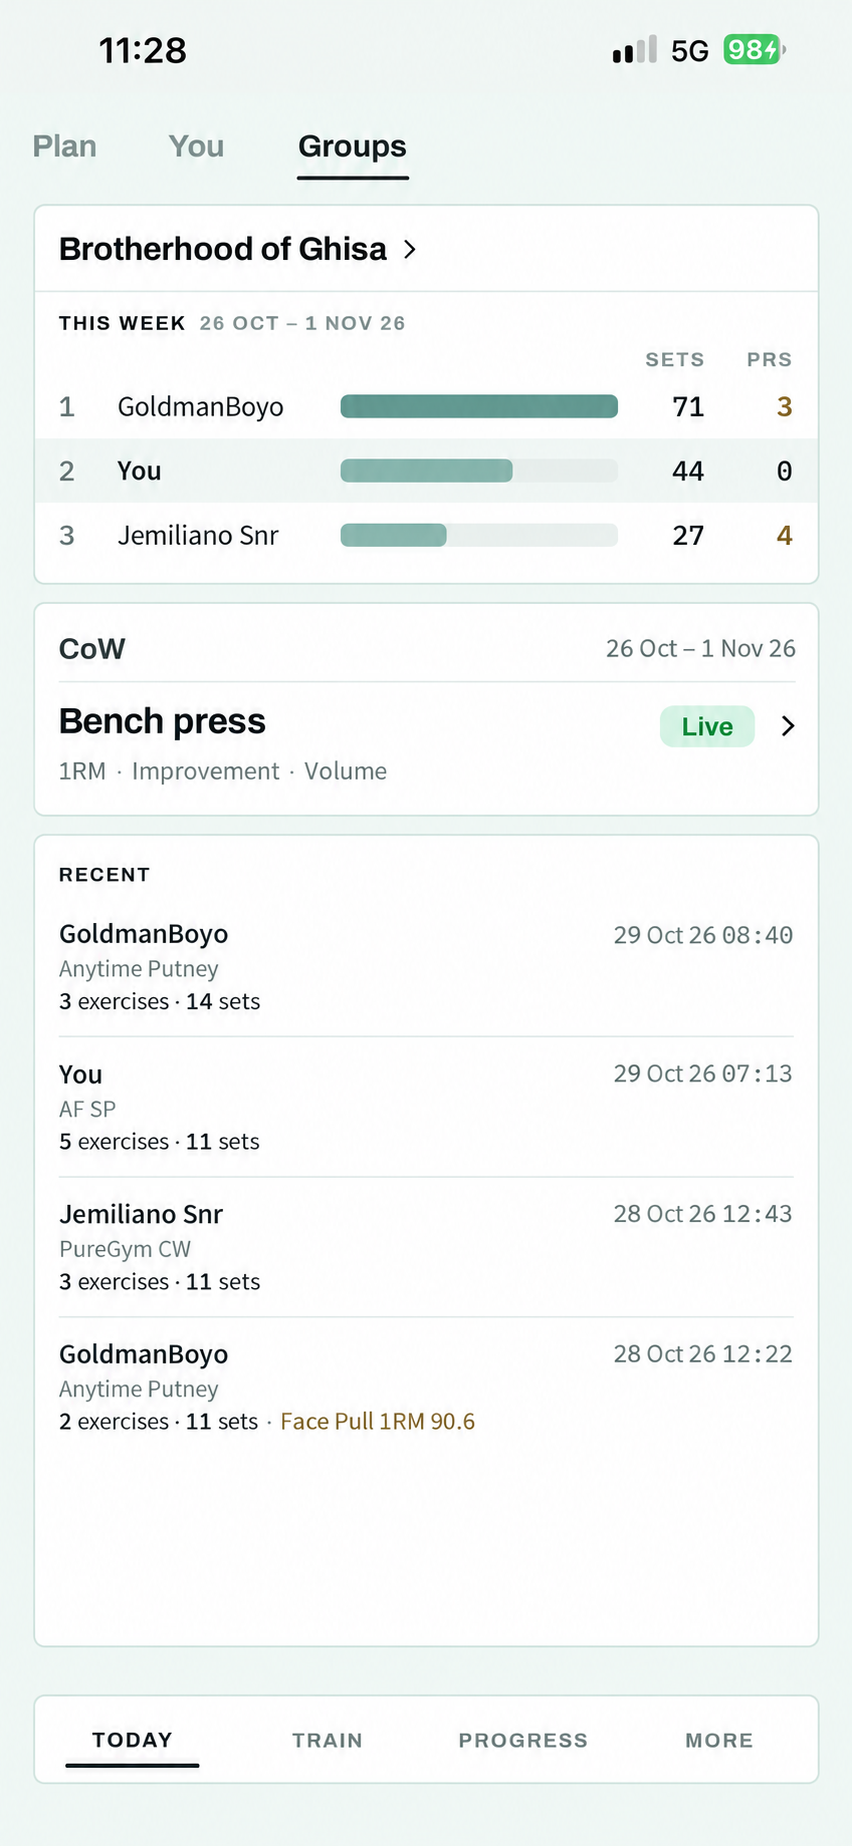
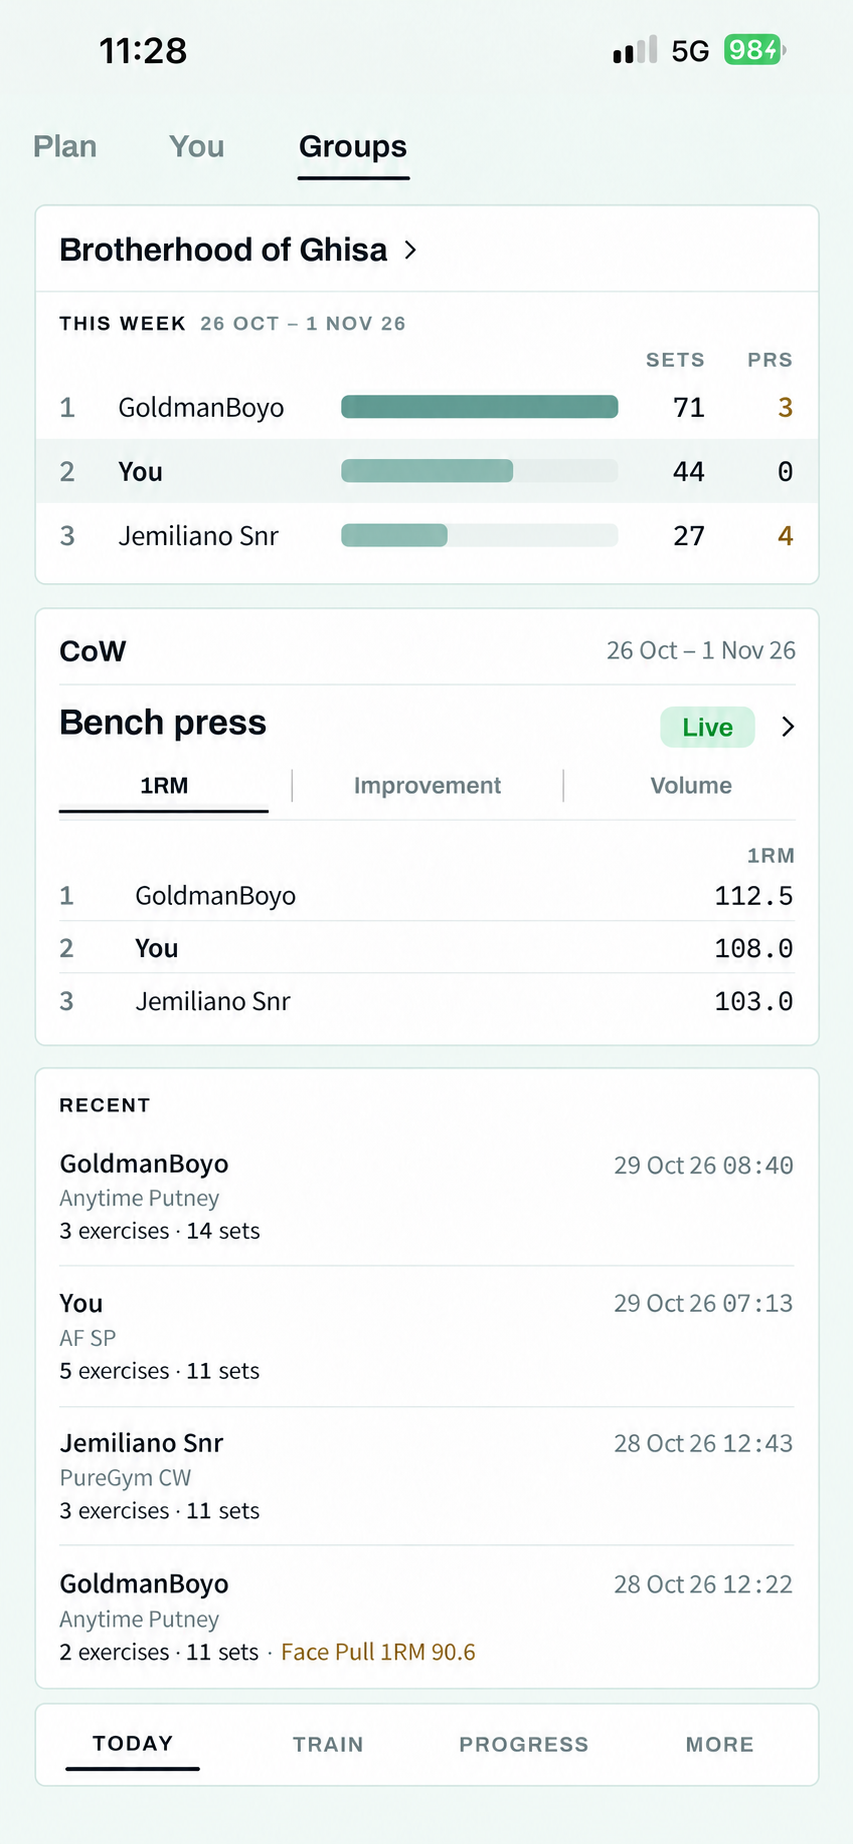
docs: show top-three CoW rankings with in-card metric tabs
Update the Today card mockup and read/UI contracts for independent 1RM,
improvement and volume previews. Keep metric switching inside Today and
open the matching detailed view from the header.

diff --git a/docs/plans/tasks/M39-T04-Deliver_CotW_mobile_flows.md b/docs/plans/tasks/M39-T04-Deliver_CotW_mobile_flows.md
@@ -30,7 +30,9 @@ Volume result. Group %BW 1RM and personal improvement % need distinct labels.
 The operator clarified: Today / Groups shows a small card for this week's CoW
 only; the detailed secondary browser is accessible from Groups. The earlier
 At a glance summary placement is replaced by this distinction. The Today card
-opens that group's current CoW in the browser. Scheduling starts on the
+shows the first three places and supports in-card switching between enabled
+1RM / Improvement / Volume leaderboards. Its header opens that group's current
+CoW with the selected metric; switching metrics never navigates. Scheduling starts on the
 individual group page and opens secondary creation/editing for owners/admins;
 members view/browse. No admin scheduling controls on Today.
 
@@ -71,7 +73,10 @@ mockup is attached to the brief; no browser tabs or week stepper.
    fixed next-week dates, membership eligibility and revision conflicts. Prove
    the Today card is immediately visible and current-week-only in the group's
    zone (no upcoming/past fallback), group switching cannot retain stale CoW
-   context, Groups opens the detailed browser, group-page admin scheduling opens the
+   context, in-card metric switching shows the proper server top three and units
+   without opening detail, and the header opens the same metric/group/CoW.
+   Cover fewer/no qualifying rows, only enabled metrics and no substitution of
+   the viewer for a top-three place. Groups opens the detailed browser; group-page admin scheduling opens the
    secondary form, members can browse without edit controls, and Back retains
    the originating group/page. Use
    existing test fixtures and read `apps/mobile/__tests__/README.md` first.
@@ -82,7 +87,9 @@ mockup is attached to the brief; no browser tabs or week stepper.
    its device-only behavior and state exactly what the flow proves.
 5. Capture the running app at small and large phone sizes and compare against
    the agreed target, including create, rankings and unavailable/error states;
-   add any size required by the current competition contract. Check accessible
+   add any size required by the current competition contract. Include Today
+   with its full weekly board, CoW preview and training-now/recent content:
+   preserve usable internal scrolling and the tab bar on small screens. Check accessible
    labels, touch targets, scrolling/keyboard and non-colour state cues. Link
    screenshots and material deviations in the PR.
 
@@ -91,6 +98,7 @@ mockup is attached to the brief; no browser tabs or week stepper.
 | Flow | Trigger and steps | Success | Failure/edge |
 | --- | --- | --- | --- |
 | Find challenge | Read the compact current-CoW card on Today / Groups, or open the detailed browser from Groups | Correct selected group and authoritative CoW week; Today opens its current detail | No current CoW is explicit; Today never substitutes an upcoming or past CoW; no inline admin controls |
+| Browse Today rankings | Tap an enabled metric inside the CoW card; read its first three places | Correct server ranks/units update in place; header opens the same metric in detail | Fewer/no results and unavailable metrics stay explicit; controls never trigger navigation |
 | Set challenge | Owner/admin opens Schedule next CoW from the individual group page; reviews fixed dates/zone on the secondary form, picks exercise/metrics and publishes | One upcoming CoW is visible to all members | Missing zone/eligible exercise, offline, validation or conflict preserves input; members cannot write |
 | Read results | Choose a metric; inspect live standings or stored final rank | Values/units and finality match the server CoW | Missing baseline is unranked only for improvement; finalizing is never shown as final |
 | Manage challenge | Admin opens Edit next CoW from the group page and edits/cancels on the secondary page | Server lifecycle is reflected immediately; Back returns to the originating group | State/role changed: refresh with input retained; destructive actions confirm |

diff --git a/docs/plans/M39-cow-ux.md b/docs/plans/M39-cow-ux.md
@@ -53,26 +53,35 @@ is accessible from Groups; Today / Groups gets a separate small card showing
 only this week's CoW for the selected group. The earlier At a glance summary
 placement was a misunderstanding and is replaced by this distinction.
 
-Today shows the current exercise, week, status and enabled metrics immediately.
-The whole card opens the detailed browser with that group and current CoW
-selected. It has no rankings, metric controls, upcoming/history rows or admin
-actions. A week without a CoW shows No CoW this week, never a prior result or
+Today shows the current exercise, week, status and the first three places of
+the selected leaderboard. Compact 1RM / Improvement / Volume tabs switch
+between the enabled metrics inside the card; no navigation or swipe is needed.
+Only metrics enabled for that CoW are offered. Render at most three qualifying
+server-ranked rows with their correct unit; do not substitute the viewer for
+third place or fabricate missing results. Keep the preview height stable when
+switching to a metric with fewer results.
+
+The header/chevron opens the detailed browser with the same group, current CoW
+and selected metric. Metric controls stay independent of that link; the whole
+card is not one nested press target. There are no upcoming/history rows or
+admin actions. A week without a CoW shows No CoW this week, never a prior result or
 next week's challenge presented as current. The authoritative group-calendar
 window determines this card; the existing Today working-set board keeps its
 own viewer-local week. No new main tab.
 
 Proposed placement: between Today's existing group week board and Recent.
-Keep the group's existing header/switch and board intact. Recent remains the
+Keep the group's existing header/switch and working-set board intact. Recent remains the
 elastic, internally scrollable part; adding the small card must not push it
 or the tab bar off-screen. Long names wrap without reducing type size.
 
 ![Proposed compact current-CoW card on Today / Groups](assets/M39-cow-today.png)
 
-Generated with the built-in image-generation tool. Prompt: edit the supplied
-Today / Groups screenshot to insert one small current-CoW card between its
-board and Recent; preserve its theme, type, existing board/session content and
-tab bar; use the existing Recent whitespace. Placement/content are proposed
-for review. The full browser target above stays separate.
+Generated with the built-in image-generation tool. Prompt: refine the current
+Today card with three metric tabs and the selected ranking's top-three rows;
+retain the current exercise/week/status and header detail link. Preserve the
+theme, type, existing working-set board and tab bar; consume Recent's spare
+space, allowing its list to scroll. The top-three/in-card-browsing behavior is
+agreed; revised layout is shown for review. The full browser stays separate.
 
 Groups provides an entry to the secondary detailed CoW browser. Its exact
 entry-link layout remains to be designed; it does not embed the full browser
@@ -96,7 +105,10 @@ Today: Plan | You | Groups
 
 CoW                         26 Oct – 1 Nov 26
 Bench press                         Live   >
-1RM · Improvement · Volume
+[1RM] | Improvement | Volume
+1 GoldmanBoyo                         112.5
+2 You                                 108.0
+3 Jemiliano Snr                       103.0
 
 ...existing Recent sessions...
 

diff --git a/docs/plans/tasks/M39-T03-Serve_CotW_rankings_and_history.md b/docs/plans/tasks/M39-T03-Serve_CotW_rankings_and_history.md
@@ -65,12 +65,17 @@ definition, current results, history and linked session reads.
    keys through the existing group modules. Do not cache full result pages
    where the existing online-paged pattern suffices. Evict incompatible new
    payload generations and drop stale account/group responses. Provide the
-   small current-CoW summary Today consumes, using the authoritative group
-   week; never return upcoming or previous-week data as its current result.
+   compact current-CoW summary Today consumes, including up to three ordered
+   public rank rows per enabled metric with explicit units and coherent scoring
+   context. This bounded podium payload can use the summary cache; full result
+   pages remain online. Use the authoritative group week, never upcoming or
+   previous-week data as current, and never derive Today ranks from local logs.
 5. Extend the existing group backend and real-client API suites with at least
    two members, several sessions, pre-week and boundary sets, several selected
    metrics, missing baseline/reading, ordinary and normalized exercises, and
-   source/revision/role races. Run real responses through the mobile guards.
+   source/revision/role races. Prove Today top-three order/units independently
+   for each enabled metric, including fewer entries and no improvement baseline.
+   Run real responses through the mobile guards.
    Read each test directory's README before modifying its tests.
 6. At the agreed deadline, finalize all selected metrics as one coherent,
    durable outcome with original units, ranks and scoring context. Publish

diff --git a/docs/plans/milestones/M39-group-challenge-of-the-week.md b/docs/plans/milestones/M39-group-challenge-of-the-week.md
@@ -90,7 +90,8 @@ follow existing refresh/offline behavior; admin writes require a connection.
 The draft [CoW UX brief](../M39-cow-ux.md) is attached to this milestone and
 T04. The operator clarified: the detailed browser is reached from Groups;
 Today / Groups gets a separate compact card for this week's CoW only. It is
-a reading entry, with no upcoming/history rows or scheduling controls; the
+a top-three preview with in-card switching across enabled metric leaderboards;
+its header opens the detailed view. It has no upcoming/history rows or scheduling controls; the
 previous At a glance summary placement was a misunderstanding. Admins schedule
 from the individual group page into secondary creation/editing. The operator selected the
 chronological browser (This week / Next week / Past CoWs) with the exercise
